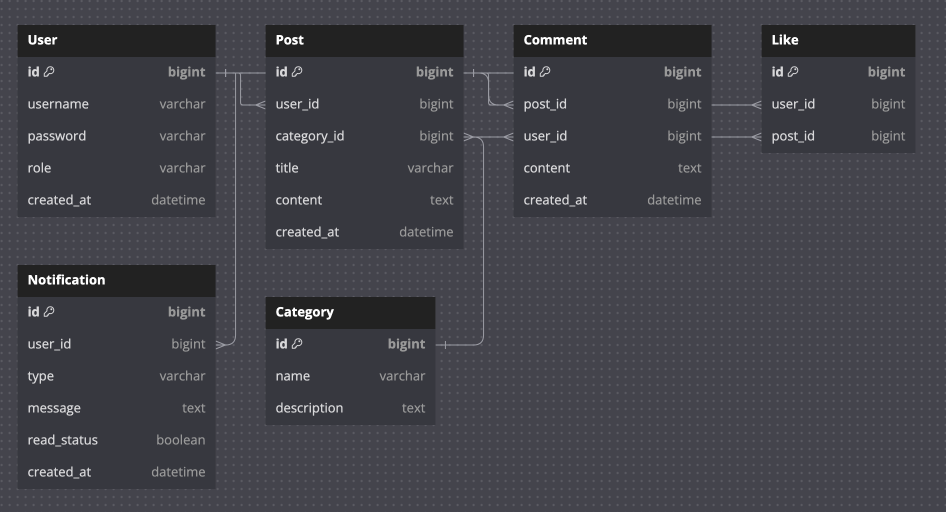
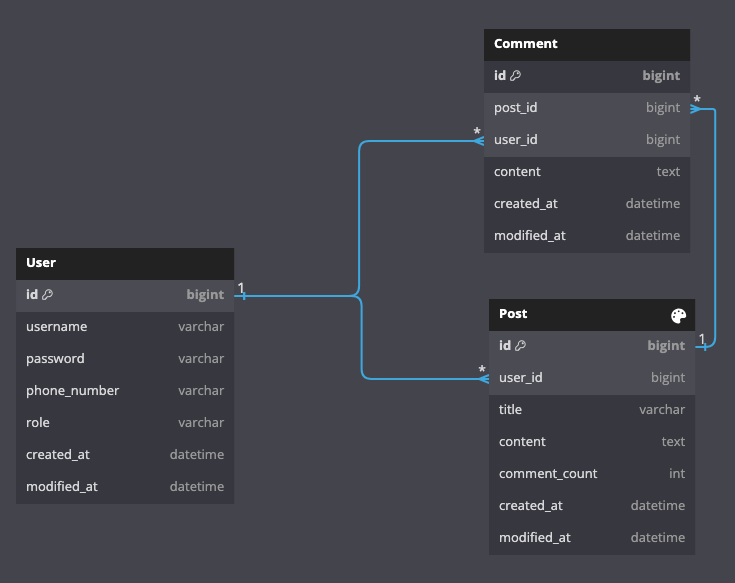
docs(README.md) : 기능 구현 명세서에 따른 ERD 재 구성

diff --git a/README.md b/README.md
@@ -34,6 +34,6 @@
   - [ ] 댓글 작성 성공 시, 생성된 댓글의 ID와 관련정보가 반환된다.
   
 ## ERD
-![img.png](img.png)
+![img_1.png](img_1.png)
 
 
